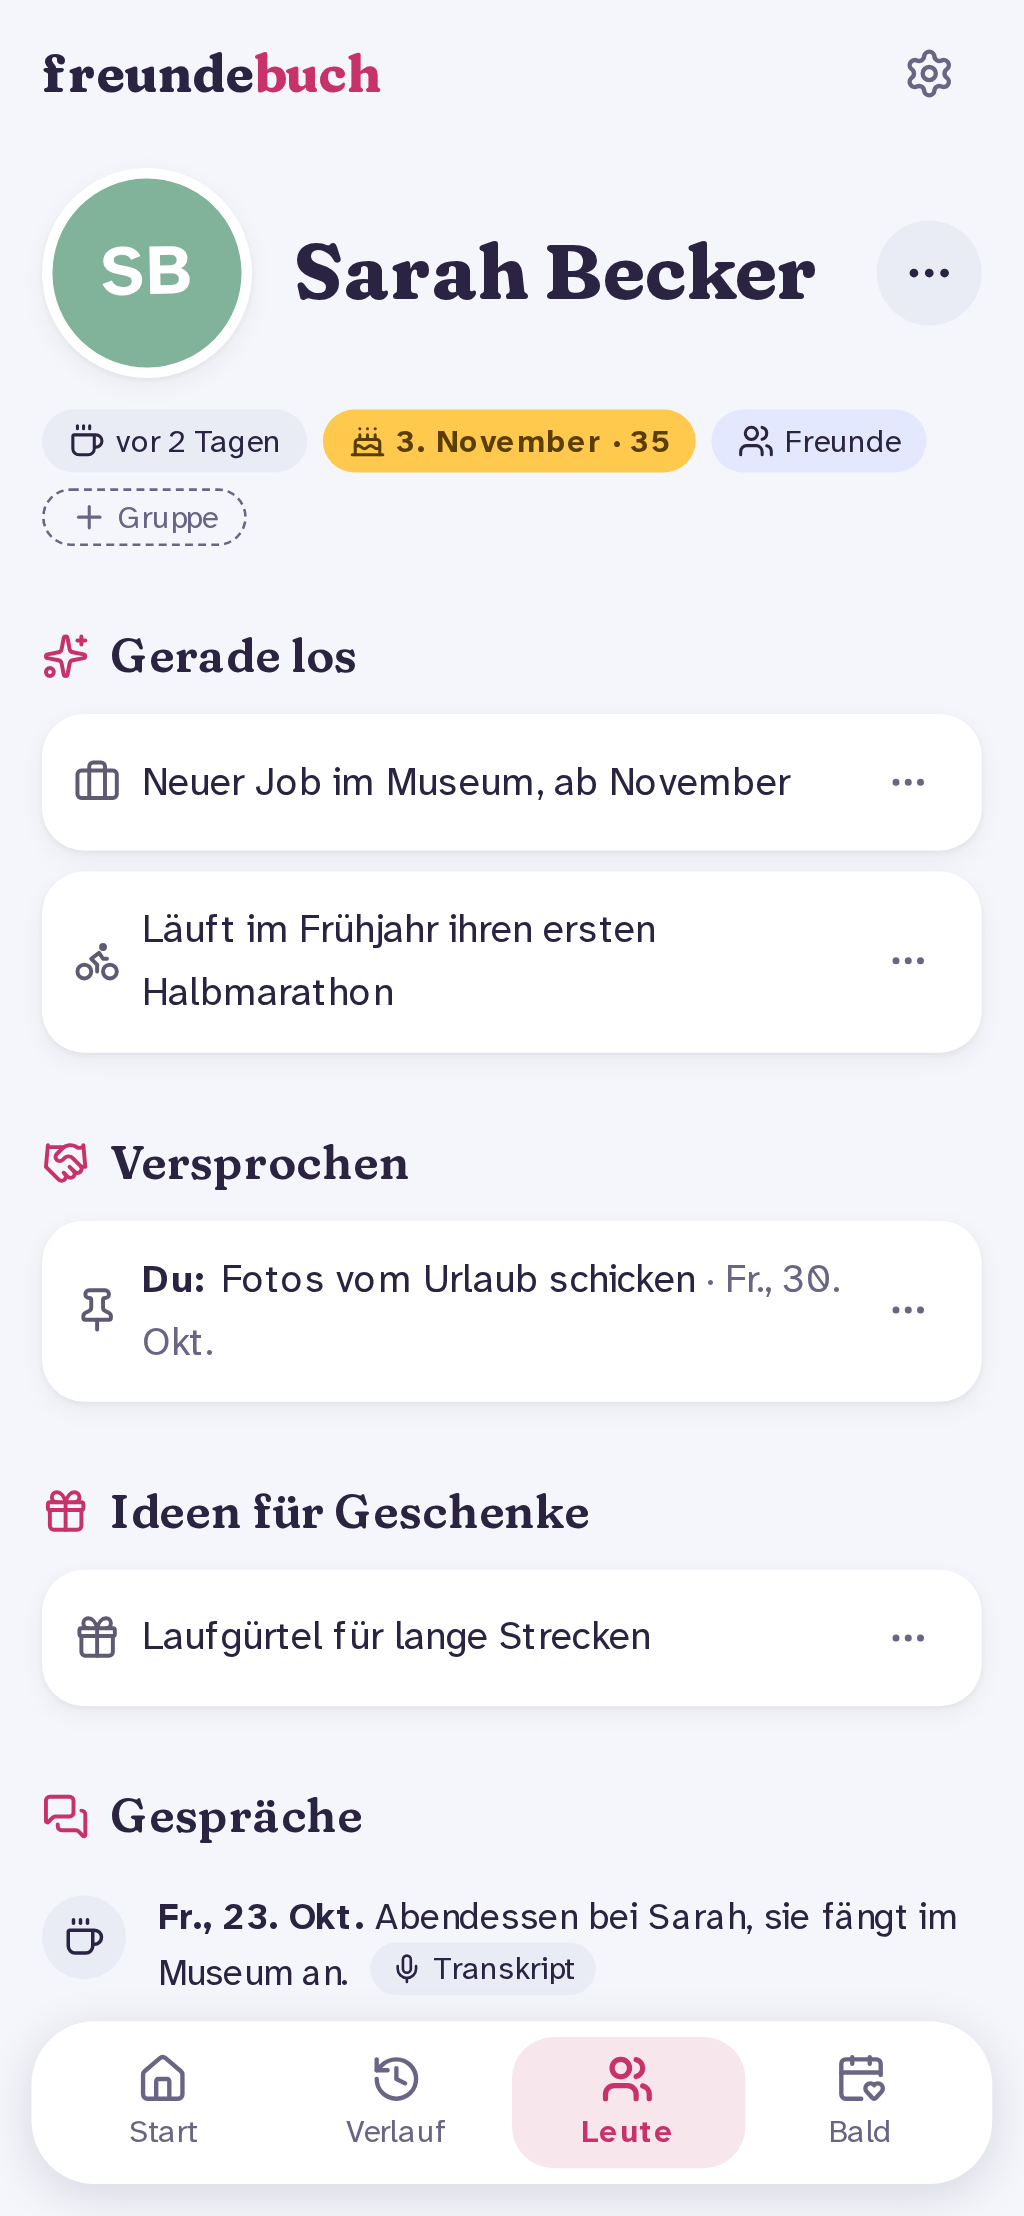
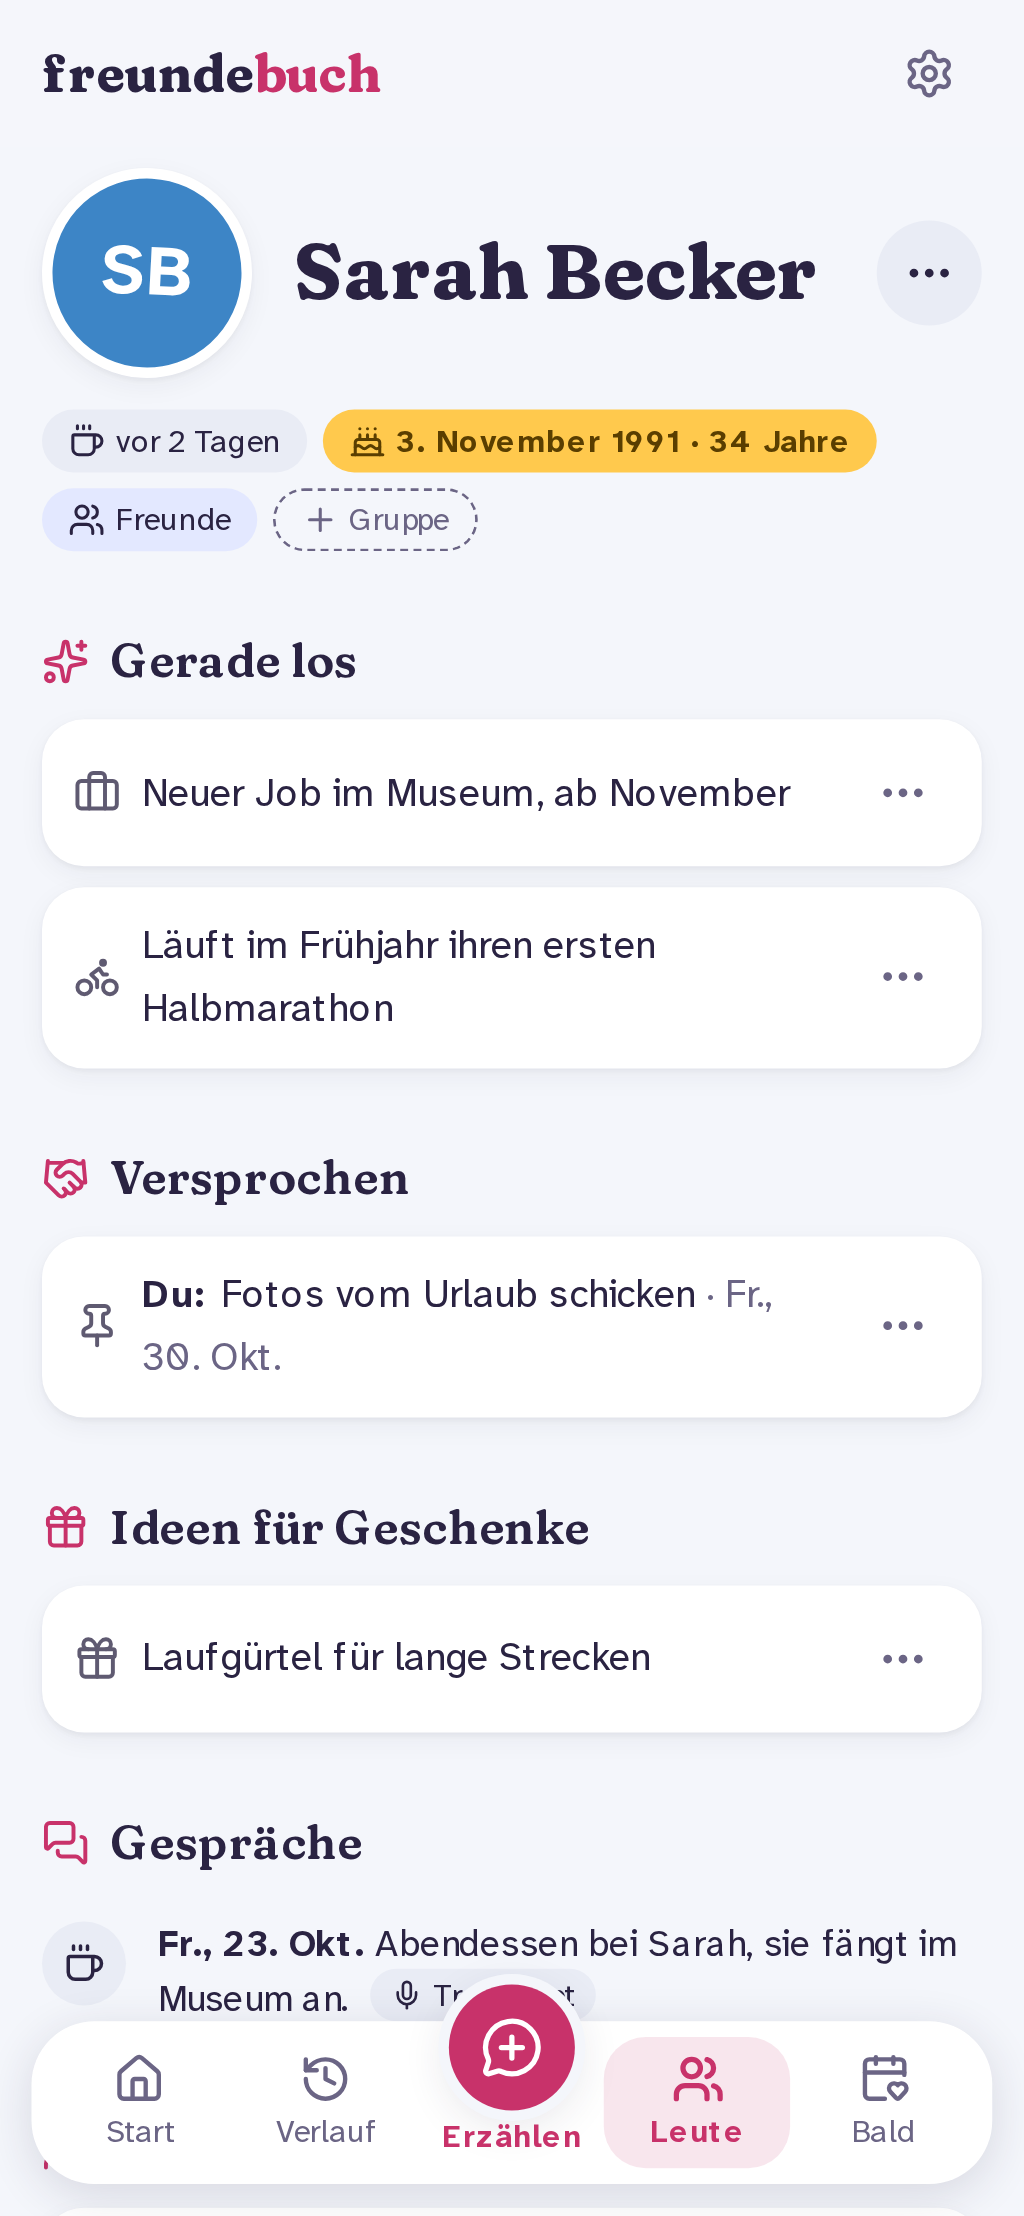
Docs: the user guide catches up with the app
The orbit's faded faces for people you haven't met and the hint for new
users, the birthday chip with today's age, the chat's Enter key and
keyboard behaviour, filing birthdays without a conversation, the chat
kept per user on a device, and remember among the tools that add data.
Fresh screenshots of the start page and a friend's page.

Claude-Session: https://claude.ai/code/session_01XbB593ytASEepv8ci28cLn

diff --git a/docs/using/web-app.md b/docs/using/web-app.md
@@ -9,13 +9,13 @@ The web app is in German, made for a quick look on the phone before you meet som
 ![The start page in dark mode](../assets/orbit-dark.png)
 </div>
 
-A greeting tells you how many people would be glad to hear from you. Below it, you're in the middle ("Du"), and everyone sits on one of three rings with their first name under them: the inner ring for people you saw recently, the outer ring for people you're due to see. Small badges show what's waiting:
+A greeting tells you how many people would be glad to hear from you. Below it, you're in the middle ("Du"), and everyone sits on one of three rings with their first name under them: the inner ring for people you saw recently, the outer ring for people you're due to see. People you haven't met yourself yet (someone your partner filed, or someone who was only mentioned) fill the free places on the outer ring with a faded face, so a new member of the household sees its people right away. Small badges show what's waiting:
 
 - 🎂 a birthday coming up,
 - 📌 an open promise,
 - 🎁 a gift idea.
 
-The group chips above the orbit put a group's members first and fade everyone else. Tap a face to open the person.
+The group chips above the orbit put a group's members first and fade everyone else. Tap a face to open the person. Until you've filed something yourself, a hint below the orbit says how to start: tell it in **Erzählen**, or connect Claude.
 
 ## A friend's page
 
@@ -25,7 +25,7 @@ The group chips above the orbit put a group's members first and fade everyone el
 
 From top to bottom:
 
-- when you last saw them, their birthday, their check-in interval and their groups (**+ Gruppe** adds or removes groups),
+- when you last saw them, their birthday with their age today ("12. Juli 1994 · 32 Jahre"), their check-in interval and their groups (**+ Gruppe** adds or removes groups),
 - **Gerade los**: what's new, as current facts,
 - **Versprochen**, **Ideen für Geschenke** and **Noch offen**: promises, gift ideas and other exchanges, with quick actions,
 - **Gespräche**: the conversations, newest first,
@@ -41,9 +41,11 @@ The date and place, who was there and who was only mentioned (by name), the summ
 
 ## Erzählen
 
-When your instance has an Anthropic API key ([configuration](../self-hosting/configuration.md)), a raised **Erzählen** button sits in the middle of the bottom bar. It opens a chat with Claude over whatever page you're on. Tell it what happened (type or dictate) and it files it, just as Claude does over MCP: it asks before filing anything sensitive as shared, asks which Anna you mean, and reads back what it filed with links under its reply. Ask it about someone ("Was war nochmal mit Marvins Spiegel?") and it looks them up.
+When your instance has an Anthropic API key ([configuration](../self-hosting/configuration.md)), a raised **Erzählen** button sits in the middle of the bottom bar. It opens a chat with Claude over whatever page you're on. Tell it what happened (type or dictate) and it files it, just as Claude does over MCP: it asks before filing anything sensitive as shared, asks which Anna you mean, and reads back what it filed with links under its reply. It also takes things that aren't a conversation, like "Malou hat am 7.2.2024 Geburtstag". Ask it about someone ("Was war nochmal mit Marvins Spiegel?") and it looks them up.
 
-Opened on someone's page, the chat knows who you probably mean ("Es geht um Marvin"); tap the chip away if not. The conversation stays on your phone until you start a new one; the server keeps only what gets filed. Claude acts as you, so it never sees your partner's private items.
+Your message moves into the chat as soon as you send it, and a bubble shows while Claude thinks. **Enter** starts a new line; the send button sends (on a computer also Ctrl+Enter or ⌘+Enter). With the phone's keyboard open, the chat shrinks to the space above it.
+
+Opened on someone's page, the chat knows who you probably mean ("Es geht um Marvin"); tap the chip away if not. The conversation stays on your device until you start a new one, kept apart per user, so your partner signing in on the same device doesn't see it; the server keeps only what gets filed. Claude acts as you, so it never sees your partner's private items.
 
 ## Verlauf, Leute, Bald
 

diff --git a/docs/self-hosting/connect-claude.md b/docs/self-hosting/connect-claude.md
@@ -22,4 +22,4 @@ Each person connects their own Claude with their own sign-in. Everything Claude 
 
 ## Tool permissions
 
-`record_conversation`, `relate` and `set_interval` add data and are not marked destructive, so the Claude apps don't ask for confirmation on every ramble. `correct` can delete and is marked destructive. The read tools are read-only. [MCP tools](../reference/mcp-tools.md) lists them all.
+`record_conversation`, `remember`, `relate` and `set_interval` add data and are not marked destructive, so the Claude apps don't ask for confirmation on every ramble. `correct` can delete and is marked destructive. The read tools are read-only. [MCP tools](../reference/mcp-tools.md) lists them all.
